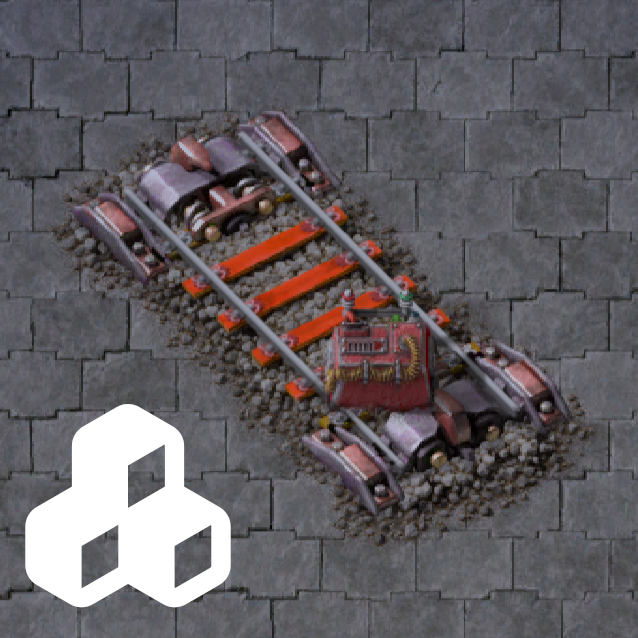
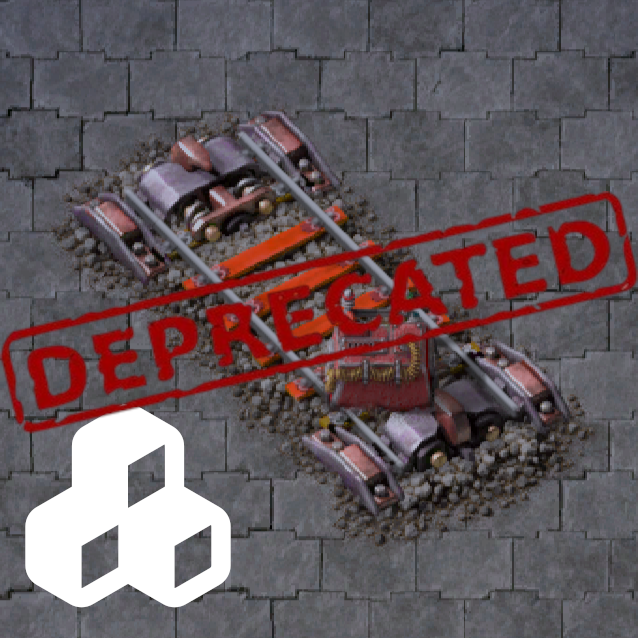
refactor: migrate to khaoscircuitry

Changed region(s): [[0.0, 0.2978, 1.0, 0.685]]

diff --git a/README.md b/README.md
@@ -1,7 +1,6 @@
-[![Factorio Mod Portal page](https://img.shields.io/badge/dynamic/json?color=orange&label=Factorio&query=downloads_count&suffix=%20downloads&url=https%3A%2F%2Fmods.factorio.com%2Fapi%2Fmods%2FActive_Rails_Tweaks&style=for-the-badge)](https://mods.factorio.com/mod/Active_Rails_Tweaks) [![Crowdin Translate](https://img.shields.io/badge/Crowdin-Translate-brightgreen?style=for-the-badge)](https://crowdin.com/project/factorio-mods-localization) [![](https://img.shields.io/github/issues/QuingKhaos/Active_Rails_Tweaks/bug?label=Bug%20Reports&style=for-the-badge)](https://github.com/QuingKhaos/Active_Rails_Tweaks/issues?q=is%3Aissue%20state%3Aopen%20label%3Abug) [![](https://img.shields.io/github/issues-pr/QuingKhaos/Active_Rails_Tweaks?label=Pull%20Requests&style=for-the-badge)](https://github.com/QuingKhaos/Active_Rails_Tweaks/pulls) [![Ko-fi](https://img.shields.io/badge/Ko--fi-support%20me-ff5e5b?logo=kofi&logoColor=white&style=for-the-badge)](https://ko-fi.com/quingkhaos)
+[![The Foundry](https://img.shields.io/badge/foundrygg-4a1402?style=for-the-badge&logo=vercel&logoColor=white)](https://foundrygg.com/)
+[![Discord community](https://img.shields.io/badge/Discord-%235865F2.svg?style=for-the-badge&logo=discord&logoColor=white)](https://discord.gg/SYmkaDjFCt)
 
-# Active Rails Tweaks
+# [DEPRECATED] Active Rails Tweaks
 
-Opinionated tweaks to [Active Rails](https://mods.factorio.com/mod/Active_Rails). For a full list of changes, take a look at the changelog.
-
-If you want to see some new tweaks, feel free to open a discussion thread on the mod portal or a GitHub issue. Eventually some non so opiniated tweaks will make it into the original mod.
+Functionality migrated to [QuingKhaos' Circuitry Tweaks](https://mods.factorio.com/mod/khaoscircuitry).
